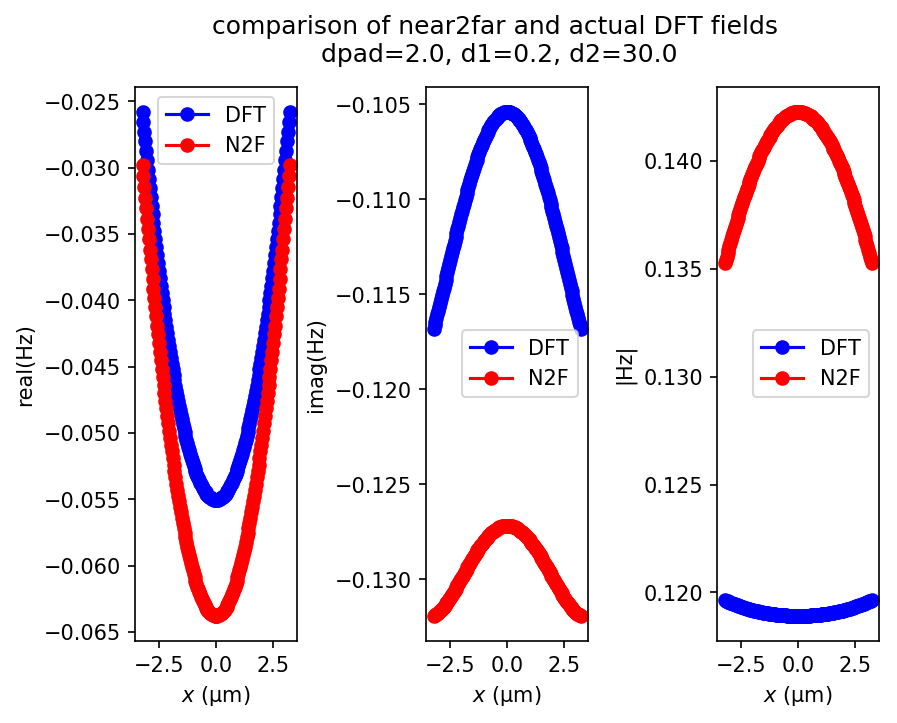
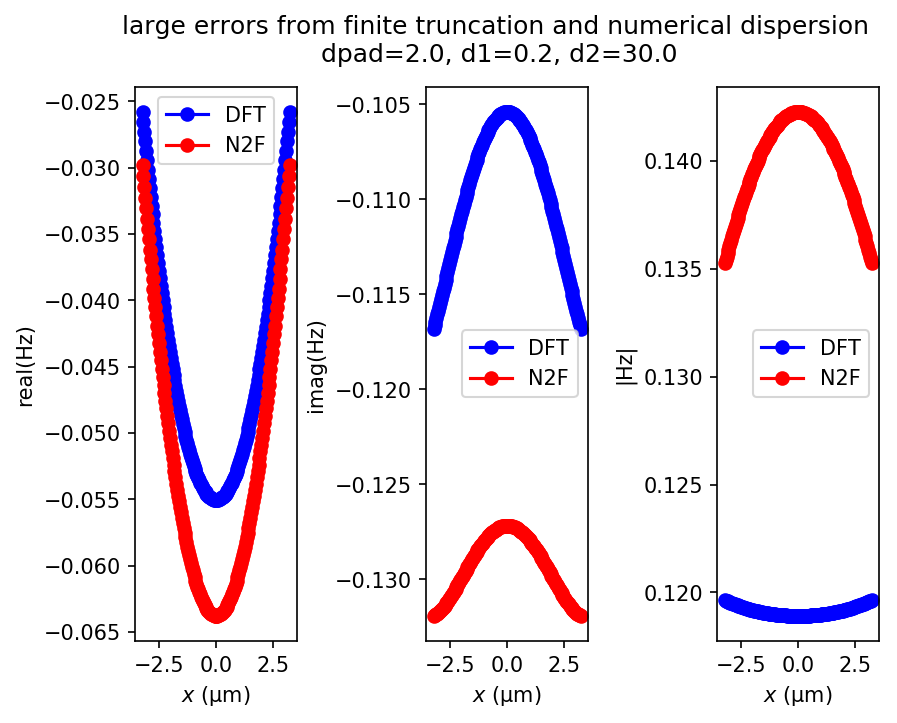
add title to plot indicating large errors from finite truncation and numerical dispersion

Changed region(s): [[0.1249, 0.0, 0.9677, 0.0609]]

diff --git a/doc/docs/Python_Tutorials/Near_to_Far_Field_Spectra.md b/doc/docs/Python_Tutorials/Near_to_Far_Field_Spectra.md
@@ -832,6 +832,6 @@ In this example, to demonstrate agreement between the far fields and DFT fields,
 
 ![center|Comparison of the far fields from the near-to-far field transformation and the DFT fields at the same location for a holey-waveguide cavity.](../images/farfields_vs_DFTfields_holeycavity.png)
 
-When these two conditions are not met as in the example below, the error from the finite truncation and numerical dispersion can be large and therefore result in a significant mismatch between the far fields computed using the near-to-far field transformation versus the actual DFT fields at that location.
+When these two conditions are not met as in the example below involving a small `dpad` and large `d2`, the error from the finite truncation and numerical dispersion can be large and therefore result in a significant mismatch between the far fields computed using the near-to-far field transformation versus the actual DFT fields at the same location.
 
 ![center|Comparison of the far fields from the near-to-far field transformation dominated by errors and the DFT fields at the same location for a holey-waveguide cavity.](../images/farfields_vs_DFTfields_holeycavity_mismatch.png)
